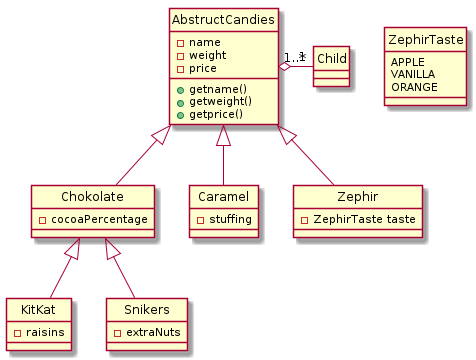
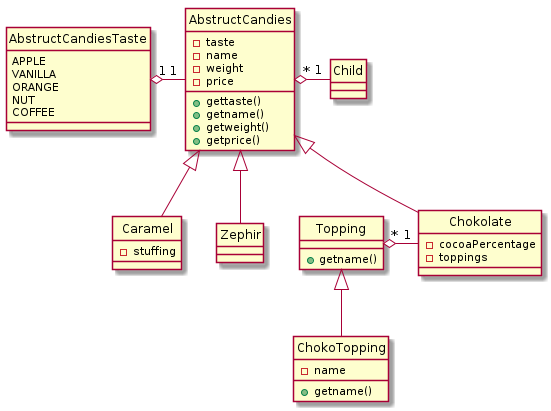
deleted KitKate and Snikers

diff --git a/src/com/epam/project/GiftCreator.java b/src/com/epam/project/GiftCreator.java
@@ -10,8 +10,6 @@ import com.epam.project.model.CandiesBag;
 import com.epam.project.model.Caramel;
 import com.epam.project.model.ChokoTopping;
 import com.epam.project.model.Chokolate;
-import com.epam.project.model.Kitkat;
-import com.epam.project.model.Snikers;
 import com.epam.project.model.Topping;
 import com.epam.project.model.Zephir;
 import java.util.ArrayList;
@@ -56,29 +54,23 @@ public class GiftCreator {
         price = 0.6f;
         bag.add(new Chokolate(cocoaPercentage, toppings, name, taste, weight, price));
         
-        boolean raisins = true;
         cocoaPercentage = 65;
-        name = "DarkKitKat";
+        toppings = new ArrayList<>();
+        toppings.add(new ChokoTopping("raisins"));
+        name = "KitKat";
         taste = COFFEE;
         weight = 0.4f;
         price = 2.0f;
-        bag.add(new Kitkat(raisins, cocoaPercentage, name, taste, weight, price));
+        bag.add(new Chokolate(cocoaPercentage, toppings, name, taste, weight, price));
         
-        boolean extraNuts = true;
         cocoaPercentage = 60;
-        name = "SuperSnikers";
+        toppings = new ArrayList<>();
+        toppings.add(new ChokoTopping("extraNuts"));
+        name = "Snikers";
         taste = NUT;
         weight = 0.3f;
         price = 2.0f;
-        bag.add(new Snikers(extraNuts, cocoaPercentage, name, taste, weight, price));
-        
-        extraNuts = true;
-        cocoaPercentage = 60;
-        name = "SuperSnikers";
-        taste = COFFEE;
-        weight = 0.3f;
-        price = 2.0f;
-        bag.add(new Snikers(extraNuts, cocoaPercentage, name, taste, weight, price));
+        bag.add(new Chokolate(cocoaPercentage, toppings, name, taste, weight, price));      
         return bag;
     }
 }
